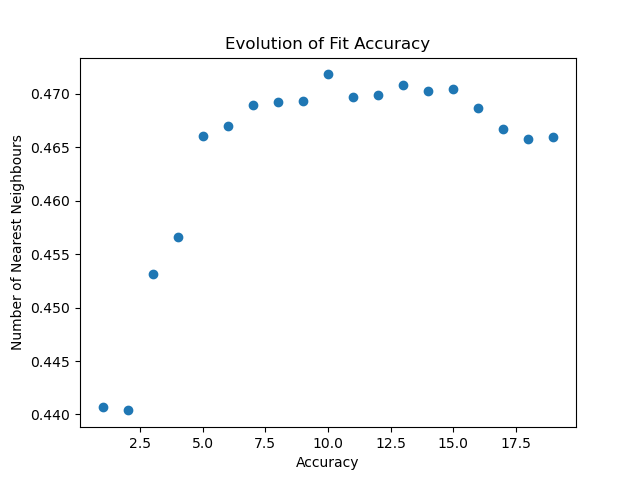
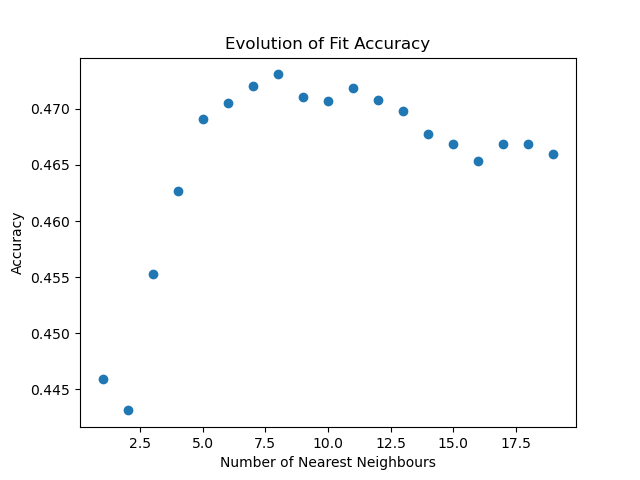
Corrected fit evolution figure axis labels

diff --git a/build_model.py b/build_model.py
@@ -42,8 +42,8 @@ if __name__ == "__main__":
 	# display fit evolution
 	plt.scatter(x_range, scores)
 	plt.title('Evolution of Fit Accuracy')
-	plt.xlabel('Accuracy')
-	plt.ylabel('Number of Nearest Neighbours')
+	plt.xlabel('Number of Nearest Neighbours')
+	plt.ylabel('Accuracy')
 	plt.savefig('./fit_evolution.png')
 	plt.show()
 	
